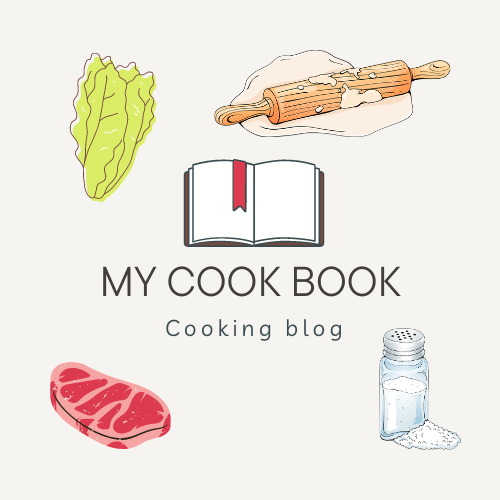
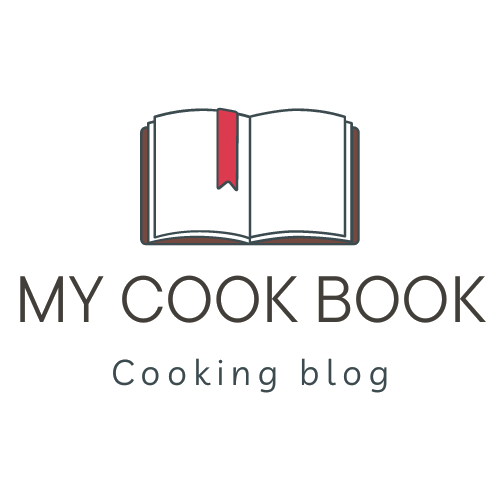
Styling Home page - Parallax background animation - HomeStep adjustement

Changed region(s): [[0.03, 0.09, 0.99, 0.9], [0.09, 0.72, 0.57, 0.9]]

diff --git a/src/pages/Home/Home.jsx b/src/pages/Home/Home.jsx
@@ -5,25 +5,45 @@ import "./css/Home.css"
 export function Home(){
     return(
         <div className="HomePage">
-            <img src="src\utils\img\MY COOK BOOK Welcom.png" alt="Welcome to My Cook Book website a cooking blog" />
-            <br />
-            <button>Get Started</button>
-            <h2>How does it work:</h2>
-            <p>Navigate through the Red's bookmarks to add or view recipes. You can even create a printable menu! Let's explore all the features available:</p>
-            
-            <h3>Add your recipe</h3>
-            <p>You can add your favorite recipes to this website and retrieve them whenever you want in just a few seconds.</p>
-            <Link to="../AddRecipe" href="#NavBar"><button>Add recipe</button></Link>
-            
-            <h3>Look for your Recipes</h3>
-            <p>When you want to retrieve a recipe, simply go to the 'Recipes' section and search for the one you want using our super intuitive search method! If you're not sure what you want to cook, you can always use the tag system to find inspiration.</p>
-            <Link to="../RecipesList"><button>Recipes</button></Link>
-            
-            <h3>Create your Menu</h3>
-            <p>Whether you're inviting friends over, preparing a special birthday celebration, or planning an event, create your menu with ease! You can even print it with the recipes alongside. Go ahead, give it a try!</p>
-            <Link to="../MenuCreator"><button>Menu creator</button></Link>
+            <section className="HomeWelcome">
+                <div className="ParallaxContent">
+                    <img src="src\utils\img\MY COOK BOOK Welcom.png" alt="Welcome to My Cook Book website a cooking blog" />
+                    <br />
+                    <button>Get Started</button>
+                </div>
+                <div className="ParalexBackground"/>
+                <div className="ParalexForeground"/>
+            </section>
 
-            <h3>Get your knife ready and bon appétit!</h3>
+
+            <section className="HomeStep">
+                <div className="HS">
+                    <h2>How does it work:</h2>
+                    <p>Navigate through the Red's bookmarks to add or view recipes. You can even create a printable menu! Let's explore all the features available:</p>
+                </div>
+                <div className="HS">
+                    <h3>Add your recipe</h3>
+                    <p>You can add your favorite recipes to this website and retrieve them whenever you want in just a few seconds.</p>
+                    <br />
+                    <Link to="../AddRecipe" href="#NavBar"><button>Add recipe</button></Link>
+                </div>
+                <div className="HS">
+                    <h3>Look for your Recipes</h3>
+                    <p>When you want to retrieve a recipe, simply go to the 'Recipes' section and search for the one you want using our super intuitive search method! If you're not sure what you want to cook, you can always use the tag system to find inspiration.</p>
+                    <br />
+                    <Link to="../RecipesList"><button>Recipes</button></Link>
+                </div>
+                <div className="HS">
+                    <h3>Create your Menu</h3>
+                    <p>Whether you're inviting friends over, preparing a special birthday celebration, or planning an event, create your menu with ease! You can even print it with the recipes alongside. Go ahead, give it a try!</p>
+                    <br />
+                    <Link to="../MenuCreator"><button>Menu creator</button></Link>
+                </div>
+                    <div className="HS">
+                    <h3>Get your knife ready and bon appétit!</h3>
+                </div>
+            </section>
+            
         </div>
     )
 }

diff --git a/src/pages/Home/css/Home.scss b/src/pages/Home/css/Home.scss
@@ -1,10 +1,72 @@
 @use "../../../css/Variable/variable.scss" as *;
 
 .HomePage{
+    & .HomeWelcome{
+        height: 100vh;
+        overflow: hidden;
+        position: relative;
+
+        & .ParallaxContent{
+            position: absolute;
+            top: 50%;
+            left: 50%;
+            transform: translate(-50%, -50%);
+            z-index: 2;
+            text-align: center;
+        }
+
+        & .ParalexBackground{
+            position: absolute;
+            top: 0;
+            left: 0;
+            width: 100%;
+            height: 100%;
+            background: url(../../../utils/img/homeBackground.png);
+            background-size:contain;
+            background-repeat: no-repeat;
+            background-position: center;
+            transform: translate3d(0, 50%, 0) scale(2);
+            animation: moveSlower 40s linear infinite;
+
+            @keyframes moveSlower {
+                0% {
+                  transform: translate3d(0, 150%, 0) scale(2);
+                }
+                100% {
+                  transform: translate3d(0, -140%, 0) scale(2);
+                }
+              }
+        }
+
+        & .ParalexForeground{
+            position: absolute;
+            top: 0;
+            left: 0;
+            width: 100%;
+            height: 100%;
+            background: url(../../../utils/img/homeForeground.png);
+            background-size:contain;
+            background-repeat: no-repeat;
+            background-position: center;
+            transform: translate3d(0, 50%, 0) scale(1);
+            z-index: 1;
+            animation: moveFaster 20s linear infinite;
+            @keyframes moveFaster {
+                0% {
+                  transform: translate3d(0, 150%, 0) scale(2);
+                }
+                100% {
+                  transform: translate3d(0, -125%, 0) scale(2);
+                }
+              }
+        }
+    }
+
     & img{
-        width: 550px;
+        width: 500px;
         margin: -50px 0 150px 0;
     }
+
     & button{
         height: 50px;
         width: 170px;
@@ -18,5 +80,22 @@
     }
     &   button:active{
         border: 1px solid $text-color-darkGray;
+    }
+}
+
+.HomeStep{
+    padding: 200px 20px;
+    box-shadow: inset 0 2px 5px rgba(0, 0, 0, 0.30);
+        
+    & div{
+        padding: 200px 20px;
+        width: 75%;
+        &:nth-child(even){
+            text-align: left;
+            margin-left: 24%;
+        }
+        &:nth-child(odd){
+            text-align: left;
+        }
     }
 }

diff --git a/src/pages/Home/css/Home.css b/src/pages/Home/css/Home.css
@@ -1,5 +1,61 @@
+.HomePage .HomeWelcome {
+  height: 100vh;
+  overflow: hidden;
+  position: relative;
+}
+.HomePage .HomeWelcome .ParallaxContent {
+  position: absolute;
+  top: 50%;
+  left: 50%;
+  transform: translate(-50%, -50%);
+  z-index: 2;
+  text-align: center;
+}
+.HomePage .HomeWelcome .ParalexBackground {
+  position: absolute;
+  top: 0;
+  left: 0;
+  width: 100%;
+  height: 100%;
+  background: url(../../../utils/img/homeBackground.png);
+  background-size: contain;
+  background-repeat: no-repeat;
+  background-position: center;
+  transform: translate3d(0, 50%, 0) scale(2);
+  animation: moveSlower 40s linear infinite;
+}
+@keyframes moveSlower {
+  0% {
+    transform: translate3d(0, 150%, 0) scale(2);
+  }
+  100% {
+    transform: translate3d(0, -140%, 0) scale(2);
+  }
+}
+.HomePage .HomeWelcome .ParalexForeground {
+  position: absolute;
+  top: 0;
+  left: 0;
+  width: 100%;
+  height: 100%;
+  background: url(../../../utils/img/homeForeground.png);
+  background-size: contain;
+  background-repeat: no-repeat;
+  background-position: center;
+  transform: translate3d(0, 50%, 0) scale(1);
+  z-index: 1;
+  animation: moveFaster 20s linear infinite;
+}
+@keyframes moveFaster {
+  0% {
+    transform: translate3d(0, 150%, 0) scale(2);
+  }
+  100% {
+    transform: translate3d(0, -125%, 0) scale(2);
+  }
+}
 .HomePage img {
-  width: 550px;
+  width: 500px;
   margin: -50px 0 150px 0;
 }
 .HomePage button {
@@ -15,6 +71,22 @@
 }
 .HomePage button:active {
   border: 1px solid rgb(66, 62, 58);
+}
+
+.HomeStep {
+  padding: 200px 20px;
+  box-shadow: inset 0 2px 5px rgba(0, 0, 0, 0.3);
+}
+.HomeStep div {
+  padding: 200px 20px;
+  width: 75%;
+}
+.HomeStep div:nth-child(even) {
+  text-align: left;
+  margin-left: 24%;
+}
+.HomeStep div:nth-child(odd) {
+  text-align: left;
 }
 
 /*# sourceMappingURL=Home.css.map */

diff --git a/src/components/Header/css/Header.scss b/src/components/Header/css/Header.scss
@@ -3,8 +3,9 @@
 nav{
     display: flex;
     flex-flow: row nowrap;
-    height: 120px;
+    height: 160px;
     text-align: center;
+    box-shadow: inset 0 -2px 5px rgba(0, 0, 0, 0.30);
     
     a{
         text-decoration: none;
@@ -30,7 +31,7 @@ nav{
     margin: 0 12px;
     padding: 15px 0 0 0;
     background-color: $color-redMark;
-    clip-path: polygon(0 0, 100% 0, 100% 70%, 50% 100%, 0 70%);
+    clip-path: polygon(100% 0, 100% 100%, 50% 75%, 0 100%, 0 0);
     transition: 0.3s ease;
 
     &:hover {

diff --git a/src/components/Header/css/Header.css b/src/components/Header/css/Header.css
@@ -1,8 +1,9 @@
 nav {
   display: flex;
   flex-flow: row nowrap;
-  height: 120px;
+  height: 160px;
   text-align: center;
+  box-shadow: inset 0 -2px 5px rgba(0, 0, 0, 0.3);
 }
 nav a {
   text-decoration: none;
@@ -26,7 +27,7 @@ nav a {
   margin: 0 12px;
   padding: 15px 0 0 0;
   background-color: rgb(220, 59, 79);
-  clip-path: polygon(0 0, 100% 0, 100% 70%, 50% 100%, 0 70%);
+  clip-path: polygon(100% 0, 100% 100%, 50% 75%, 0 100%, 0 0);
   transition: 0.3s ease;
 }
 .BookMark:hover {

diff --git a/Readme.md b/Readme.md
@@ -44,6 +44,7 @@ The app is built using the following technologies:
 - [Redux](https://redux.js.org/) - A predictable state container for JavaScript apps
 - [React Router](https://reactrouter.com/en/main) - Declarative routing for React
 - [Vite](https://vitejs.dev/) - A build tool that aims to provide a faster and leaner development experience 🔥
+- [Sass](https://sass-lang.com/) - A CSS preprocessor that allows for more maintainable and scalable stylesheets by providing features such as variables, mixins, and nesting 🎨
 
 ### Folder Structure 🌳
 
@@ -53,6 +54,7 @@ The app is organized as follows:
 .
 ├── src/
 │   ├── components/
+│   ├── css/
 │   ├── pages/
 │   ├── store/
 │   ├── utils/
@@ -65,6 +67,7 @@ The app is organized as follows:
 ```
 
 - `src/components` - Contains reusable components used throughout the app.
+- `src/css` - Contains style for the index.jsx and App.jsx it also contain my reusable variable and font-familly variable.
 - `src/pages` - Contains the main pages of the app.
 - `src/store` - Contains the Redux store and related files.
 - `src/utils` - Contains utility functions used throughout the app.
